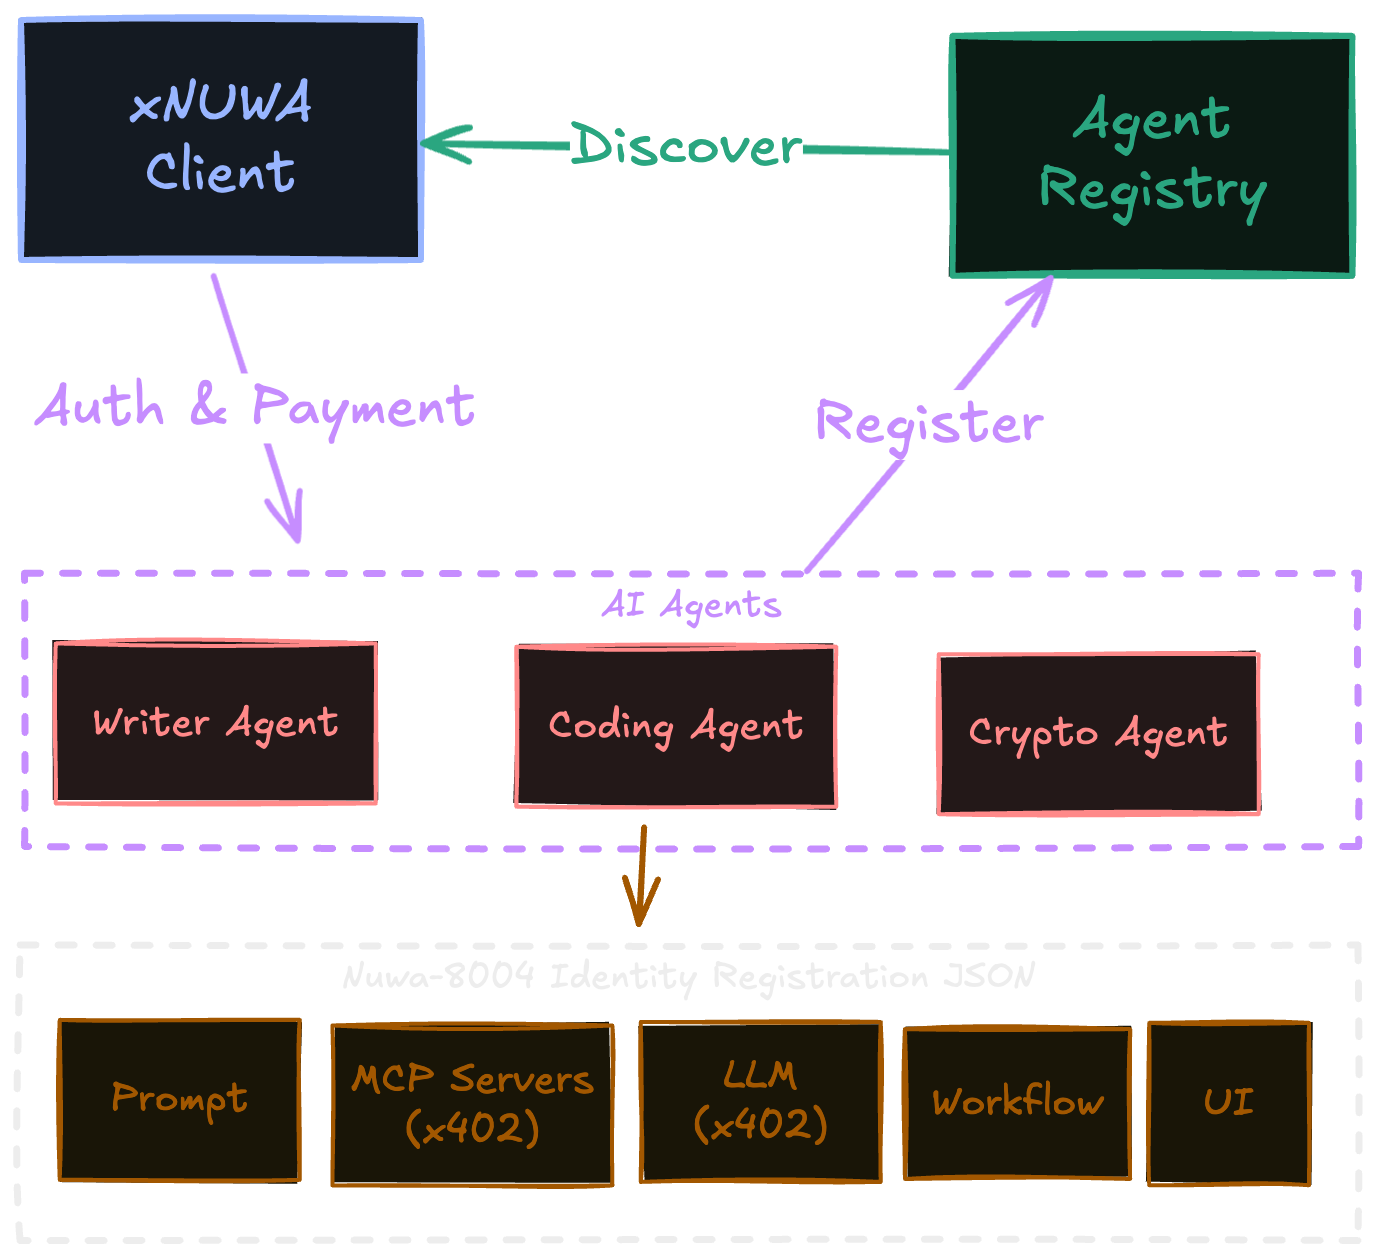
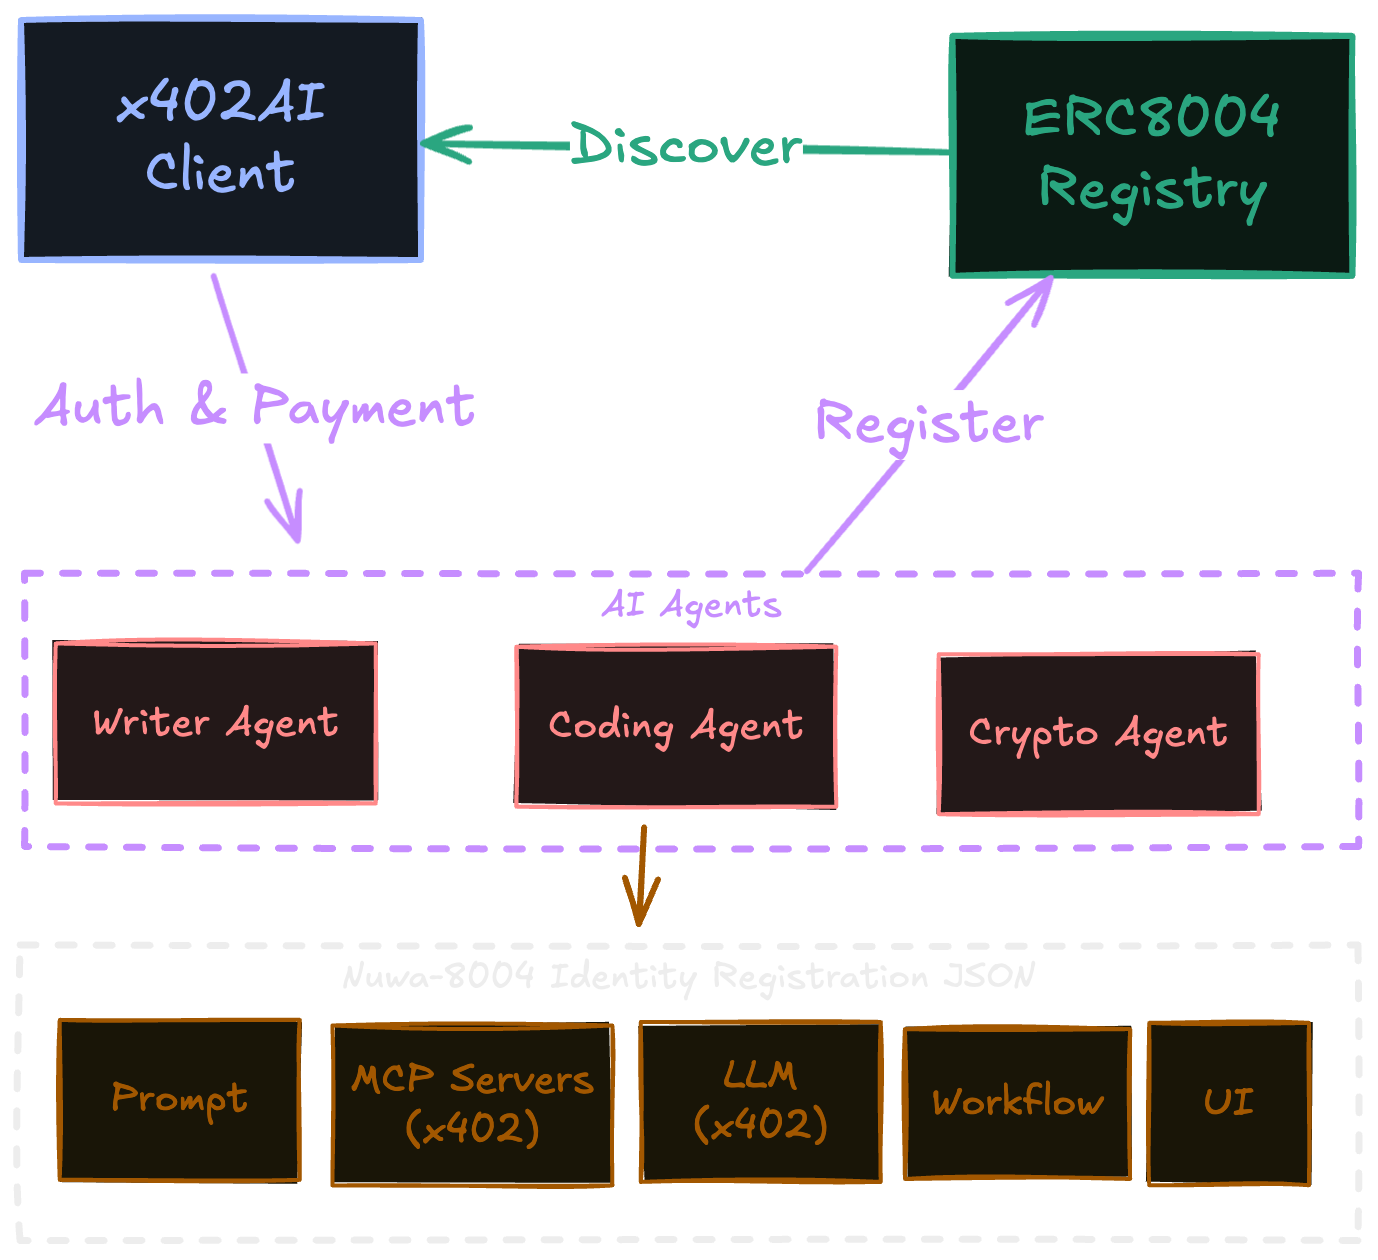
rebranding to x402AI

Changed region(s): [[0.7489, 0.0619, 0.9361, 0.1238], [0.0936, 0.0619, 0.2496, 0.0929]]

diff --git a/src/pages/public-landing.tsx b/src/pages/public-landing.tsx
@@ -45,7 +45,7 @@ export function PublicLanding({ onOpenAuth }: PublicLandingProps) {
             <div className="hidden items-center gap-2 text-sm text-muted-foreground md:flex">
               <Button variant="ghost" size="sm" asChild>
                 <a
-                  href="https://nuwa.dev"
+                  href="https://x402ai.app"
                   target="_blank"
                   rel="noreferrer"
                 >
@@ -88,10 +88,12 @@ export function PublicLanding({ onOpenAuth }: PublicLandingProps) {
                   ERC-8004 Agent Registry
                 </div>
                 <h1 className="text-4xl font-semibold leading-tight tracking-tight text-balance sm:text-5xl lg:text-6xl">
-                  Your One-Stop Shop for AI Agents On-Chain
+                  Your One-Stop Show for AI Agents on X Layer
                 </h1>
                 <p className="text-lg text-muted-foreground">
-                  xNUWA lets you interact with AI agents registered on-chain via the ERC8004 protocol and pay seamlessly using the x402 payment protocol.
+                  x402AI lets you interact with AI agents registered on-chain via the ERC8004 protocol and pay seamlessly using the x402 payment protocol. Built on
+                  {' '}<a className="underline underline-offset-2" href="https://www.okx.com/xlayer" target="_blank" rel="noreferrer">X Layer</a>{' '}and leveraging the{' '}
+                  <a className="underline underline-offset-2" href="https://x402x.dev/" target="_blank" rel="noreferrer">x402x project</a>.
                 </p>
                 <motion.div
                   {...getFadeIn(0.1)}
@@ -105,7 +107,7 @@ export function PublicLanding({ onOpenAuth }: PublicLandingProps) {
                 </motion.div>
                 <div className="flex flex-wrap items-center gap-4">
                   <Button size="lg" variant="primary" onClick={onOpenAuth}>
-                    Enter xNUWA
+                    Enter x402AI
                     <ArrowRight className="size-4" />
                   </Button>
                   <Button size="sm" variant="ghost" asChild>
@@ -126,9 +128,9 @@ export function PublicLanding({ onOpenAuth }: PublicLandingProps) {
                 {...getFadeIn(0.15)}
               >
                 {resolvedTheme === 'dark' ? (
-                  <img src={nuwaAtAGlanceDark} alt="xNUWA at a glance" />
+                  <img src={nuwaAtAGlanceDark} alt="x402AI at a glance" />
                 ) : (
-                  <img src={nuwaAtAGlance} alt="xNUWA at a glance" />
+                  <img src={nuwaAtAGlance} alt="x402AI at a glance" />
                 )}
               </motion.div>
             </div>
@@ -139,7 +141,18 @@ export function PublicLanding({ onOpenAuth }: PublicLandingProps) {
 
         <footer className="border-t border-border/40 bg-background/80">
           <div className="mx-auto flex w-full max-w-6xl flex-col gap-4 px-6 py-8 text-sm text-muted-foreground sm:flex-row sm:items-center sm:justify-between">
-            <p>© {new Date().getFullYear()} xNUWA. Built with ❤.</p>
+            <p>
+              © {new Date().getFullYear()} x402AI. A project from{' '}
+              <a
+                href="https://x.com/NuwaDev"
+                target="_blank"
+                rel="noopener noreferrer"
+                className="underline underline-offset-2 hover:text-foreground"
+              >
+                Nuwa AI
+              </a>
+              . Built with ❤.
+            </p>
           </div>
         </footer>
       </div>

diff --git a/index.html b/index.html
@@ -7,25 +7,25 @@
     <link rel="icon" type="image/png" sizes="16x16" href="/src/assets/favicon_io/favicon-16x16.png">
     <link rel="manifest" href="/src/assets/favicon_io/site.webmanifest">
     <meta name="viewport" content="width=device-width, initial-scale=1.0" />
-    <title>xNUWA - Your One-Stop Shop for AI Agents On-Chain</title>
+    <title>x402AI - Your One-Stop Shop for AI Agents On-Chain</title>
     
     <!-- SEO Meta Tags -->
-    <meta name="description" content="xNUWA - Your One-Stop Shop for AI Agents On-Chain" />
-    <meta name="keywords" content="xnuwa, ai agents, on-chain, crypto, application" />
-    <meta name="author" content="xNUWA Team" />
+    <meta name="description" content="x402AI - Your One-Stop Shop for AI Agents On-Chain" />
+    <meta name="keywords" content="x402AI, ai agents, on-chain, crypto, application" />
+    <meta name="author" content="x402AI Team" />
     
     <!-- Open Graph Meta Tags -->
-    <meta property="og:title" content="xNUWA - Your One-Stop Shop for AI Agents On-Chain" />
-    <meta property="og:description" content="xNUWA - Your One-Stop Shop for AI Agents On-Chain" />
+    <meta property="og:title" content="x402AI - Your One-Stop Shop for AI Agents On-Chain" />
+    <meta property="og:description" content="x402AI - Your One-Stop Shop for AI Agents On-Chain" />
     <meta property="og:type" content="website" />
     <meta property="og:url" content="" />
-    <meta property="og:image" content="/og/xnuwa-og.png" />
+    <meta property="og:image" content="/og/x402ai-og.png" />
     
     <!-- Twitter Card Meta Tags -->
     <meta name="twitter:card" content="summary_large_image" />
-    <meta name="twitter:title" content="xNUWA - Your One-Stop Shop for AI Agents On-Chain" />
-    <meta name="twitter:description" content="xNUWA - Your One-Stop Shop for AI Agents On-Chain" />
-    <meta name="twitter:image" content="/og/xnuwa-og.png" />
+    <meta name="twitter:title" content="x402AI - Your One-Stop Shop for AI Agents On-Chain" />
+    <meta name="twitter:description" content="x402AI - Your One-Stop Shop for AI Agents On-Chain" />
+    <meta name="twitter:image" content="/og/x402ai-og.png" />
     
     <!-- Theme Color -->
     <meta name="theme-color" content="#6366f1" />

diff --git a/src/shared/hooks/use-seo.ts b/src/shared/hooks/use-seo.ts
@@ -15,12 +15,12 @@ export interface SEOData {
 }
 
 const DEFAULT_SEO: SEOData = {
-  title: 'xNUWA - Your One-Stop Shop for AI Agents On-Chain',
-  description: 'xNUWA - Your One-Stop Shop for AI Agents On-Chain',
-  image: '/og/xnuwa-og.png',
+  title: 'x402AI - Your One-Stop Shop for AI Agents On-Chain',
+  description: 'x402AI - Your One-Stop Shop for AI Agents On-Chain',
+  image: '/og/x402ai-og.png',
   type: 'website',
-  // Brand the default keyword set around xNUWA and on-chain AI agents
-  keywords: ['xnuwa', 'ai agents', 'on-chain', 'crypto', 'application'],
+  // Brand the default keyword set around x402AI and on-chain AI agents
+  keywords: ['x402AI', 'ai agents', 'on-chain', 'crypto', 'application'],
 };
 
 export function useSEO(seoData: Partial<SEOData> = {}) {
@@ -135,7 +135,7 @@ export function generateCapSEO(cap: {
   const { capData, stats } = cap;
   const { metadata } = capData;
 
-  const title = `${metadata.displayName} - AI Cap | xNUWA - Your One-Stop Shop for AI Agents On-Chain`;
+  const title = `${metadata.displayName} - AI Cap | x402AI - Your One-Stop Shop for AI Agents On-Chain`;
   const description = `${metadata.description} - Download: ${stats?.downloads || 0}, Rating: ${stats?.averageRating || 0}/5 (${stats?.ratingCount || 0} reviews)`;
 
   // Extract thumbnail URL from the thumbnail object
@@ -144,16 +144,16 @@ export function generateCapSEO(cap: {
       ? metadata.thumbnail.url
       : metadata.thumbnail?.type === 'file'
         ? metadata.thumbnail.file
-        : '/og/xnuwa-og.png';
+        : '/og/x402ai-og.png';
 
   return {
     title,
     description,
-    keywords: ['xnuwa', 'ai cap', 'ai agents', 'on-chain', 'crypto ai', ...metadata.tags],
-    image: thumbnailUrl || '/og/xnuwa-og.png',
+    keywords: ['x402AI', 'ai cap', 'ai agents', 'on-chain', 'crypto ai', ...metadata.tags],
+    image: thumbnailUrl || '/og/x402ai-og.png',
     url: `${window.location.origin}/cap-store/${capData.idName}`,
     type: 'product',
-    author: 'xNUWA Team',
+    author: 'x402AI Team',
     publishedTime: metadata.submittedAt
       ? new Date(metadata.submittedAt).toISOString()
       : undefined,

diff --git a/src/shared/components/structured-data.tsx b/src/shared/components/structured-data.tsx
@@ -66,7 +66,7 @@ export function generateSoftwareApplicationSchema(cap: {
       ? metadata.thumbnail.url
       : metadata.thumbnail?.type === 'file'
         ? metadata.thumbnail.file
-        : '/og/xnuwa-og.png';
+        : '/og/x402ai-og.png';
 
   return {
     '@context': 'https://schema.org',
@@ -76,10 +76,10 @@ export function generateSoftwareApplicationSchema(cap: {
     applicationCategory: 'AI Tools',
     operatingSystem: 'Web',
     url: `${window.location.origin}/cap-store/${capData.idName}`,
-    image: thumbnailUrl || '/og/xnuwa-og.png',
+    image: thumbnailUrl || '/og/x402ai-og.png',
     publisher: {
       '@type': 'Organization',
-      name: 'xNUWA',
+      name: 'x402AI',
       url: window.location.origin,
     },
     downloadUrl: `${window.location.origin}/cap-store/${capData.idName}`,
@@ -124,12 +124,12 @@ export function generateWebSiteSchema() {
   return {
     '@context': 'https://schema.org',
     '@type': 'WebSite',
-    name: 'xNUWA',
+    name: 'x402AI',
     description: 'Your One-Stop Shop for AI Agents On-Chain',
     url: window.location.origin,
     publisher: {
       '@type': 'Organization',
-      name: 'xNUWA',
+      name: 'x402AI',
       url: window.location.origin,
     },
     potentialAction: {
@@ -147,7 +147,7 @@ export function generateOrganizationSchema() {
   return {
     '@context': 'https://schema.org',
     '@type': 'Organization',
-    name: 'xNUWA',
+    name: 'x402AI',
     description: 'Your One-Stop Shop for AI Agents On-Chain',
     url: window.location.origin,
     logo: {

diff --git a/scripts/generate-og.tsx b/scripts/generate-og.tsx
@@ -1,6 +1,6 @@
 /*
   Generates a shareable OG image using a React component via Satori + Resvg.
-  Output: public/og/xnuwa-og.png (1200x630)
+  Output: public/og/x402ai-og.png (1200x630)
 
   Run: pnpm og:generate
 */
@@ -69,7 +69,7 @@ async function main() {
               letterSpacing: -0.5,
             }}
           >
-            xNUWA
+            x402AI
           </div>
           <div
             style={{
@@ -105,7 +105,7 @@ async function main() {
         >
           Alpha Test · ERC-8004 Registry · x402 Payments
         </div>
-        <div style={{ fontSize: 20, color: '#94a3b8' }}>xnuwa.app</div>
+        <div style={{ fontSize: 20, color: '#94a3b8' }}>x402ai.app</div>
       </div>
     </div>
   );
@@ -128,7 +128,7 @@ async function main() {
 
   const outDir = path.resolve('public/og');
   fs.mkdirSync(outDir, { recursive: true });
-  const outFile = path.join(outDir, 'xnuwa-og.png');
+  const outFile = path.join(outDir, 'x402ai-og.png');
   fs.writeFileSync(outFile, pngData);
   console.log(`OG image generated: ${path.relative(process.cwd(), outFile)}`);
 }
@@ -137,4 +137,3 @@ main().catch((err) => {
   console.error('Failed to generate OG image:', err);
   process.exit(1);
 });
-

diff --git a/src/features/settings/components/sections/about-section.tsx b/src/features/settings/components/sections/about-section.tsx
@@ -12,7 +12,7 @@ export function AboutSection() {
   const createGitHubIssueURL = () => {
     const owner = 'nuwa-protocol';
     const repo = 'nuwa';
-    const title = '[xNUWA Feedback] PLEASE ENTER TITLE HERE';
+    const title = '[x402AI Feedback] PLEASE ENTER TITLE HERE';
     const body = `## Info\n- My DID: ${account?.address}\n- Client Version: ${version}\n\n## Description\n PLEASE DESCRIBE THE ISSUE HERE...`;
     const labels = ['uncategorized'];
 
@@ -36,7 +36,7 @@ export function AboutSection() {
       <div className="rounded-lg border p-6">
         <div className="space-y-4">
           <div className="space-y-0.5">
-            <h3 className="text-base font-medium">xNUWA v{version}</h3>
+            <h3 className="text-base font-medium">x402AI v{version}</h3>
             <div className="pt-2">
               <Button
                 variant="link"

diff --git a/src/features/auth/components/account-login-dialog.tsx b/src/features/auth/components/account-login-dialog.tsx
@@ -20,7 +20,7 @@ import { cn } from '@/shared/utils';
 import { AccountStore, IS_PASSKEY_SUPPORTED } from '../store';
 
 const PIN_LENGTH = 6;
-const DEFAULT_ACCOUNT_PLACEHOLDER = 'xNUWA Account';
+const DEFAULT_ACCOUNT_PLACEHOLDER = 'x402AI Account';
 const PIN_SLOT_KEYS = Array.from(
   { length: PIN_LENGTH },
   (_, index) => `pin-slot-${index}`,
@@ -348,7 +348,7 @@ export function AccountLoginDialog({
                 <DialogTitle className="text-2xl font-semibold">
                   {accounts.length > 0
                     ? 'Choose or Set Up Account'
-                    : 'Set Up Your xNUWA Account'}
+                    : 'Set Up Your x402AI Account'}
                 </DialogTitle>
                 <DialogDescription className="mt-2 text-base">
                   {accounts.length > 0

diff --git a/src/features/auth/store.ts b/src/features/auth/store.ts
@@ -346,7 +346,7 @@ export const AccountStore = create<AccountStoreState>()(
 
         // Build a friendlier label for the passkey record shown in platform UIs
         const shortAddr = `${accountData.address.slice(0, 6)}...${accountData.address.slice(-4)}`;
-        const passkeyDisplayName = `xNUWA Wallet: ${accountData.name} (${shortAddr})`;
+        const passkeyDisplayName = `x402AI Wallet: ${accountData.name} (${shortAddr})`;
 
         const registrationOptions: PublicKeyCredentialCreationOptionsJSON = {
           challenge: bufferToBase64(challenge),

diff --git a/src/features/chat/components/current-cap-info.tsx b/src/features/chat/components/current-cap-info.tsx
@@ -43,7 +43,7 @@ export function CurrentCapInfo() {
             Install Your First AI Agent
           </div>
           <div className="mt-2 text-sm md:text-[15px] leading-6 text-muted-foreground/90">
-            xNUWA requires installing AI Agents to work. Please install an AI Agent to get started.
+            x402AI requires installing AI Agents to work. Please install an AI Agent to get started.
           </div>
           <div className="mt-4">
             <Button variant="default" onClick={() => navigate('/explore')}>

diff --git a/src/shared/hooks/use-auto-loading-detection.ts b/src/shared/hooks/use-auto-loading-detection.ts
@@ -144,7 +144,7 @@ export function useAutoLoadingDetection() {
       return;
     }
 
-    updateLoadingProgress(12, 'Initializing xNUWA...');
+    updateLoadingProgress(12, 'Initializing x402AI...');
 
     const cleanupFns: Array<() => void> = [];
     let hasAppContent = false;
@@ -343,7 +343,7 @@ export function useAutoLoadingDetection() {
 
     registerTimeout(() => {
       if (!isLoadingComplete) {
-        finalizeLoading('xNUWA is ready');
+        finalizeLoading('x402AI is ready');
       }
     }, 7000);
 

diff --git a/src/features/sidebar/components/sidebar-logo.tsx b/src/features/sidebar/components/sidebar-logo.tsx
@@ -19,7 +19,7 @@ export const SidebarLogo = () => {
     >
       <img
         src={logoAppBrand}
-        alt="xNUWA"
+        alt="x402AI"
         className="h-8 w-9 shrink-0 translate-y-0 -translate-x-0.5"
       />
       {open && (
@@ -30,7 +30,7 @@ export const SidebarLogo = () => {
         >
           <img
             src={resolvedTheme === 'dark' ? logoTextsDark : logoTexts}
-            alt="xNUWA"
+            alt="x402AI"
             className="h-4 shrink-0"
           />
         </motion.span>

diff --git a/src/features/wallet/hooks/use-deposit-order.ts b/src/features/wallet/hooks/use-deposit-order.ts
@@ -36,7 +36,7 @@ export const useDepositOrder = () => {
         price_amount: amount,
         price_currency: 'USD',
         order_id: `order_${userDid}_${amount}_${Date.now()}`,
-        order_description: `$${amount} USD of xNUWA credits`,
+        order_description: `$${amount} USD of x402AI credits`,
         pay_currency: currency.code.toLowerCase(),
         payer_did: userDid,
       };
